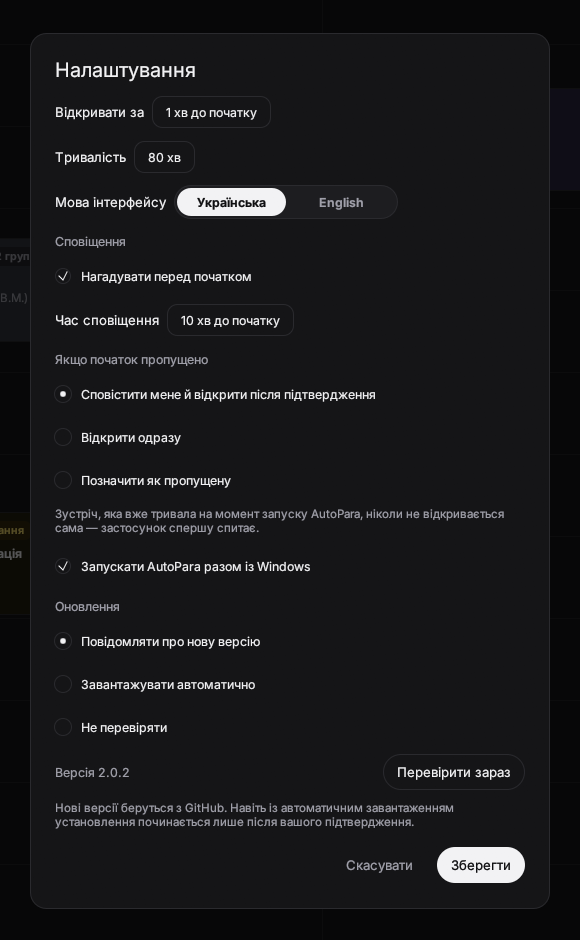
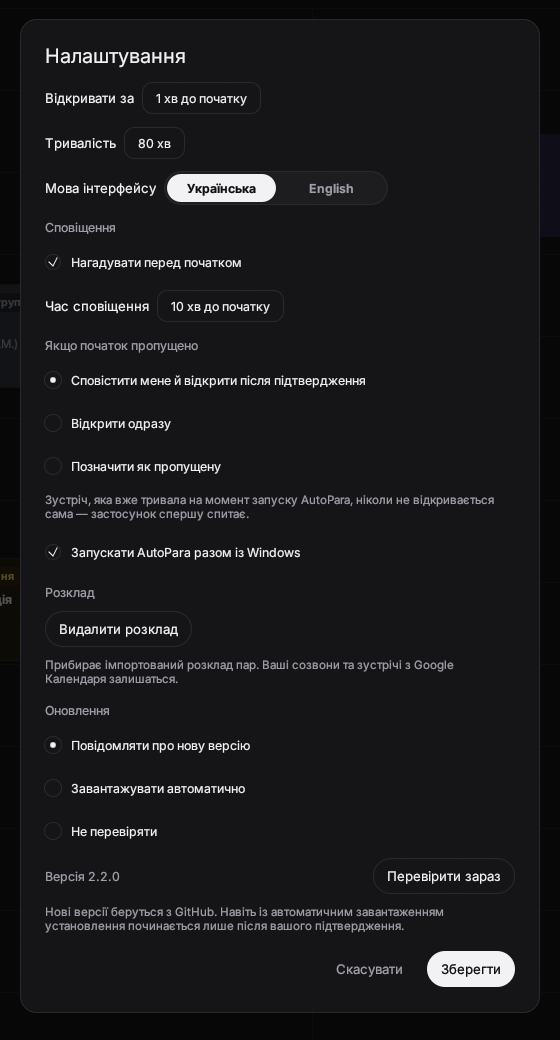
Delete timetable in Settings
Removes the imported timetable (courses, groups, classes) and keeps the personal calls and Google Calendar meetings.

diff --git a/crates/autopara-app/src/modals.rs b/crates/autopara-app/src/modals.rs
@@ -120,6 +120,8 @@ pub struct SettingsModal {
     pub autostart_enabled: bool,
     pub update_mode: String,
     pub gcal_auto_open: bool,
+    /// "Delete timetable" was pressed once and waits for "yes"
+    pub confirm_delete_timetable: bool,
 }
 
 impl SettingsModal {
@@ -134,6 +136,7 @@ impl SettingsModal {
             autostart_enabled: s.autostart_enabled,
             update_mode: s.update_mode.clone(),
             gcal_auto_open: s.gcal_auto_open,
+            confirm_delete_timetable: false,
         }
     }
 }
@@ -177,6 +180,7 @@ pub enum ModalOutcome {
     SaveSettings(SettingsModal),
     CheckUpdatesNow,
     GcalSignIn,
+    DeleteTimetable,
     GcalSignOut,
     SelectGroup { course_id: i64, group_id: i64 },
     PickDocxForImport,
@@ -591,6 +595,7 @@ pub fn show_settings_modal(
     update_status: Option<&str>,
     checking_updates: bool,
     gcal: Option<&GcalStatus>,
+    has_timetable: bool,
     p: Palette,
     lang: Lang,
     t: f32,
@@ -732,6 +737,51 @@ pub fn show_settings_modal(
             )
         };
         ui.checkbox(&mut modal.autostart_enabled, autostart_label);
+
+        if has_timetable {
+            ui.add_space(6.0);
+            ui.label(
+                RichText::new(tr.pick("Розклад", "Timetable"))
+                    .size(12.5)
+                    .strong()
+                    .color(p.text_muted),
+            );
+            ui.allocate_ui_with_layout(
+                vec2(ui.available_width(), 36.0),
+                Layout::left_to_right(Align::Center),
+                |ui| {
+                    if modal.confirm_delete_timetable {
+                        ui.label(
+                            RichText::new(tr.pick("Точно видалити розклад?", "Delete the timetable?"))
+                                .size(12.5),
+                        );
+                        ui.with_layout(Layout::right_to_left(Align::Center), |ui| {
+                            ui.spacing_mut().item_spacing.x = 8.0;
+                            if ui.add(danger_button(tr.pick("Так, видалити", "Yes, delete"), p)).clicked() {
+                                modal.confirm_delete_timetable = false;
+                                outcome = ModalOutcome::DeleteTimetable;
+                            }
+                            if ui.add(secondary_button(tr.pick("Ні", "No"), p)).clicked() {
+                                modal.confirm_delete_timetable = false;
+                            }
+                        });
+                    } else if ui
+                        .add(secondary_button(tr.pick("Видалити розклад", "Delete timetable"), p))
+                        .clicked()
+                    {
+                        modal.confirm_delete_timetable = true;
+                    }
+                },
+            );
+            ui.label(
+                RichText::new(tr.pick(
+                    "Прибирає імпортований розклад пар. Ваші созвони та зустрічі з Google Календаря залишаться.",
+                    "Removes the imported class timetable. Your own calls and Google Calendar meetings stay.",
+                ))
+                .size(11.5)
+                .color(p.text_muted),
+            );
+        }
 
         // None = this build has no Google client configured: no section at all
         if let Some(g) = gcal {

diff --git a/crates/autopara-core/src/scheduler.rs b/crates/autopara-core/src/scheduler.rs
@@ -441,6 +441,43 @@ mod tests {
     }
 
     #[test]
+    fn deleting_timetable_keeps_own_calls_and_calendar() {
+        let storage = Storage::open_in_memory().unwrap();
+        let (personal, mine_group) = storage.ensure_personal_workspace().unwrap();
+        let mut mine = sample_lesson("12:00", "13:00");
+        mine.course_id = personal.id;
+        storage.add_lesson(&mine, &[mine_group.id]).unwrap();
+        let day = NaiveDate::from_ymd_opt(2026, 3, 2).unwrap();
+        let mut meeting = sample_lesson("15:00", "16:00");
+        meeting.source_key = format!("{GCAL_KEY_PREFIX}m1");
+        meeting.on_date = Some(day);
+        storage.sync_calendar_lessons(&[meeting], day).unwrap();
+
+        // an imported timetable with one class, selected
+        storage
+            .conn_for_tests()
+            .execute_batch(
+                "INSERT INTO courses(ordinal, name) VALUES (2, 'II курс');
+                 INSERT INTO groups(course_id, name) VALUES ((SELECT id FROM courses WHERE ordinal=2), '22 група');",
+            )
+            .unwrap();
+        let course = storage.courses().unwrap().into_iter().find(|c| c.ordinal == 2).unwrap();
+        let group = storage.groups(course.id).unwrap()[0].clone();
+        let mut class = sample_lesson("09:00", "10:20");
+        class.course_id = course.id;
+        storage.add_lesson(&class, &[group.id]).unwrap();
+        storage.set_setting("selected_group_id", &group.id.to_string()).unwrap();
+
+        storage.delete_imported_timetables().unwrap();
+
+        assert!(storage.courses().unwrap().iter().all(|c| c.ordinal == 0));
+        assert_eq!(storage.settings().unwrap().selected_group_id, Some(mine_group.id));
+        let left = storage.lessons_for_group(mine_group.id).unwrap();
+        assert_eq!(left.len(), 2, "own call and calendar meeting stay");
+        assert!(left.iter().any(|l| l.is_from_calendar()));
+    }
+
+    #[test]
     fn calendar_sync_inserts_updates_deletes_only_its_own() {
         let storage = Storage::open_in_memory().unwrap();
         let (course, group) = storage.ensure_personal_workspace().unwrap();

diff --git a/crates/autopara-app/src/main.rs b/crates/autopara-app/src/main.rs
@@ -13,7 +13,7 @@ use autopara_core::autostart;
 use autopara_core::filters::{self, LessonFilter};
 use autopara_core::launcher;
 use autopara_core::models::{
-    Course, Group, LANG_EN, LANG_UK, Lesson, STATUS_MISSED, Settings, UPDATE_AUTO, UPDATE_OFF,
+    Course, Group, LANG_EN, LANG_UK, Lesson, PERSONAL_COURSE_ORDINAL, STATUS_MISSED, Settings, UPDATE_AUTO, UPDATE_OFF,
 };
 use autopara_core::nextup;
 use autopara_core::normalize::{detect_provider, pair_slot, week_start};
@@ -1983,6 +1983,10 @@ impl eframe::App for AutoParaApp {
                         self.update_status.as_deref(),
                         self.update_checking,
                         gcal_status.as_ref(),
+                        self.cache
+                            .courses
+                            .iter()
+                            .any(|c| c.ordinal != PERSONAL_COURSE_ORDINAL),
                         p,
                         lang,
                         modal_t,
@@ -2025,6 +2029,14 @@ impl eframe::App for AutoParaApp {
                 if let Some(g) = &self.gcal {
                     g.sign_in(ctx);
                 }
+            }
+            ModalOutcome::DeleteTimetable => {
+                if let Ok(mut g) = self.backend.lock() {
+                    let _ = g.storage.delete_imported_timetables();
+                    g.pending_catchups.clear();
+                }
+                self.view_group_id = None;
+                self.reload();
             }
             ModalOutcome::GcalSignOut => {
                 if let Some(g) = &self.gcal {

diff --git a/crates/autopara-core/src/storage.rs b/crates/autopara-core/src/storage.rs
@@ -870,6 +870,24 @@ impl Storage {
         Ok(changed)
     }
 
+    #[cfg(test)]
+    pub(crate) fn conn_for_tests(&self) -> &Connection {
+        &self.conn
+    }
+
+    /// Remove every imported timetable: its courses, groups and classes (cascade). The
+    /// personal workspace stays, with the calls added by hand and the Google Calendar meetings.
+    pub fn delete_imported_timetables(&self) -> Result<(), StorageError> {
+        self.conn.execute(
+            "DELETE FROM courses WHERE ordinal != ?1",
+            params![PERSONAL_COURSE_ORDINAL],
+        )?;
+        self.set_setting("schedule_active_from", "")?;
+        // the selected group is gone: this points the selection back at the personal one
+        self.ensure_personal_workspace()?;
+        Ok(())
+    }
+
     /// Remove every calendar call (on sign-out).
     pub fn delete_calendar_lessons(&self) -> Result<(), StorageError> {
         self.conn.execute(

diff --git a/README.md b/README.md
@@ -4,6 +4,8 @@
 
 ![Week view](assets/screenshots/week.png)
 
+A Google Calendar meeting that overlaps a class is drawn on top of it with a shadow and keeps all its details; the class above stays readable.
+
 | First launch | Settings |
 | --- | --- |
 | ![Welcome screen](assets/screenshots/welcome.png) | ![Settings](assets/screenshots/settings.png) |
@@ -20,7 +22,9 @@ On the [Releases](https://github.com/reyjendiz/AutoPara/releases/latest) page:
 - `AutoPara-<version>.dmg`: macOS, Apple Silicon.
 
 ## Features
-- **Start from scratch or import `.docx`**: create personal meeting schedules from zero or import university `.docx` timetables.
+- **Start from scratch or import `.docx`**: create personal meeting schedules from zero or import university `.docx` timetables. "Delete timetable" in Settings removes the imported timetable and keeps your own calls and calendar meetings.
+- **Google Calendar**: "Sign in with Google" in Settings, once. Meetings from your primary calendar (Meet, or a Zoom/Teams link in the event) show up next to your classes and are refreshed every minute; moved or cancelled events follow. Read-only access; the sign-in key stays in Windows Credential Manager / macOS Keychain. See [PRIVACY.md](PRIVACY.md).
+- **Classes open by themselves, meetings only if you want**: calendar meetings have their own "open automatically" switch (off by default), so you can join them from another device. Timetable classes always open on time.
 - **Fire-once scheduler & reminders**: opens links automatically N minutes ahead, native OS notifications, catch-up banner for missed starts, system tray background mode.
 - **GitHub Releases auto-updater**: checks for updates in the background (or manually in Settings), verifies size and SHA-256 over HTTPS (`github.com` / `githubusercontent.com` only), and installs only on user confirmation.
 - **Cross-platform**: Windows (`x86_64`) and macOS Apple Silicon (`aarch64-apple-darwin`, M1/M2/M3/M4).
@@ -50,6 +54,8 @@ To point the built-in auto-updater at your own GitHub repository, pass `AUTOPARA
 AUTOPARA_GITHUB_REPO="your-user/AutoPara" ./scripts/build_macos_arm64.sh
 ```
 
+Google sign-in needs an OAuth client of type "Desktop app" (Google Cloud, Calendar API enabled, scope `calendar.events.readonly`). Pass it at build time as `AUTOPARA_GOOGLE_CLIENT_ID` and `AUTOPARA_GOOGLE_CLIENT_SECRET`; without them the Google section is simply not shown.
+
 ## GitHub Release (Automatic Windows + macOS ARM64 Builds)
 
 Push a semver tag matching `version` in `crates/autopara-app/Cargo.toml`:
@@ -59,4 +65,4 @@ git tag v2.0.0
 git push origin main --tags
 ```
 
-GitHub Actions (`.github/workflows/release.yml`) automatically runs `clippy`, `cargo test`, builds `AutoPara-<version>-Setup.exe` and `AutoPara-<version>.dmg` (Apple Silicon), and publishes a GitHub Release that the in-app auto-updater detects immediately.
+GitHub Actions (`.github/workflows/release.yml`) automatically runs `clippy`, `cargo test`, builds `AutoPara-<version>-Setup.exe` and `AutoPara-<version>.dmg` (Apple Silicon), and publishes a GitHub Release that the in-app auto-updater detects immediately. The Google client comes from the repository secrets `GOOGLE_CLIENT_ID` and `GOOGLE_CLIENT_SECRET`.
